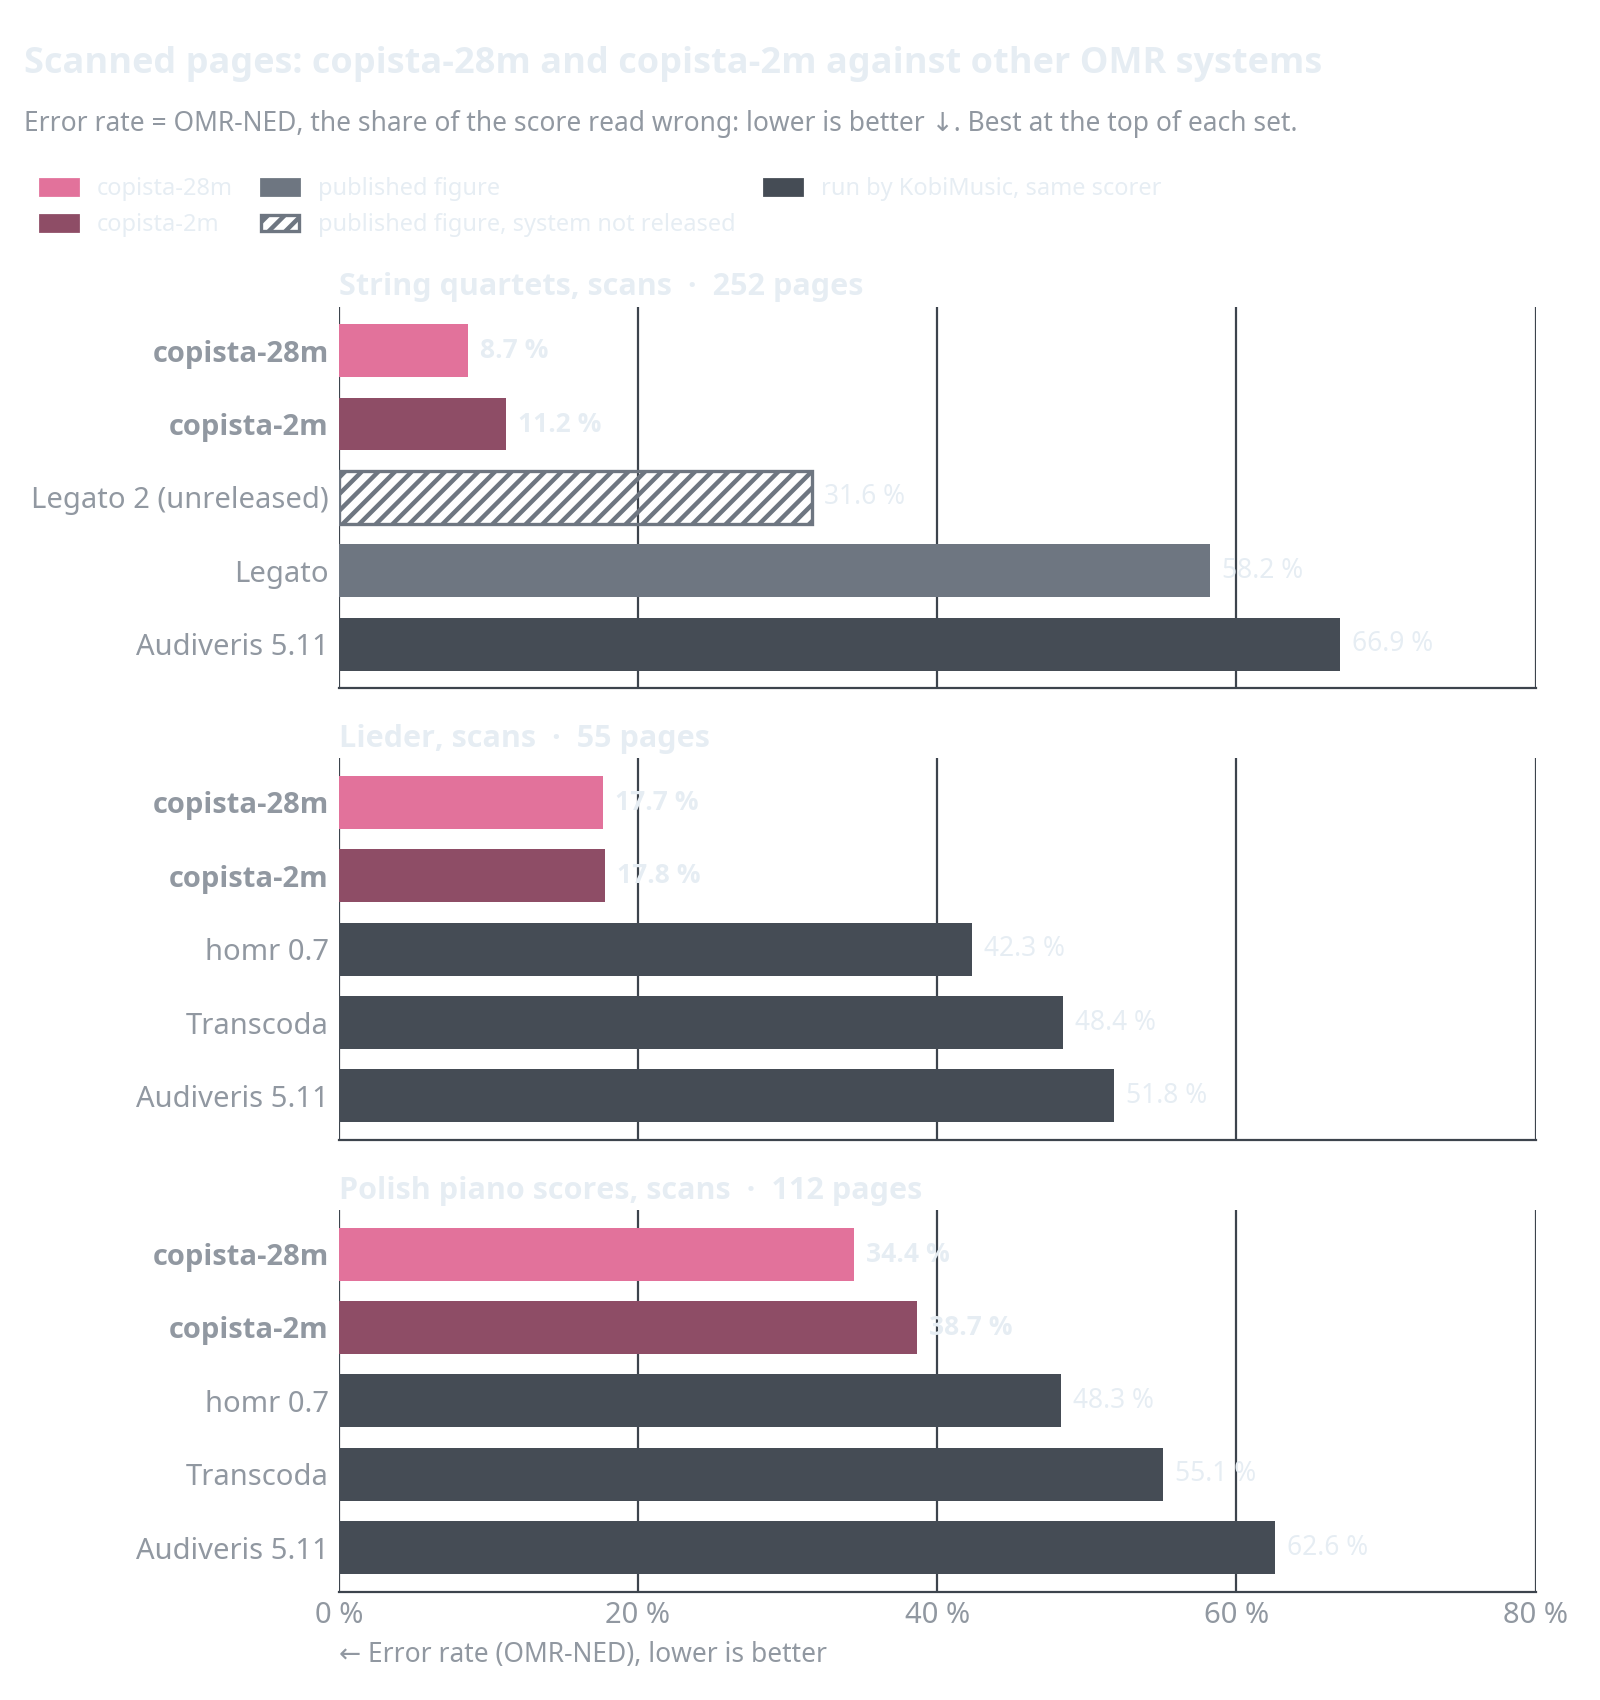
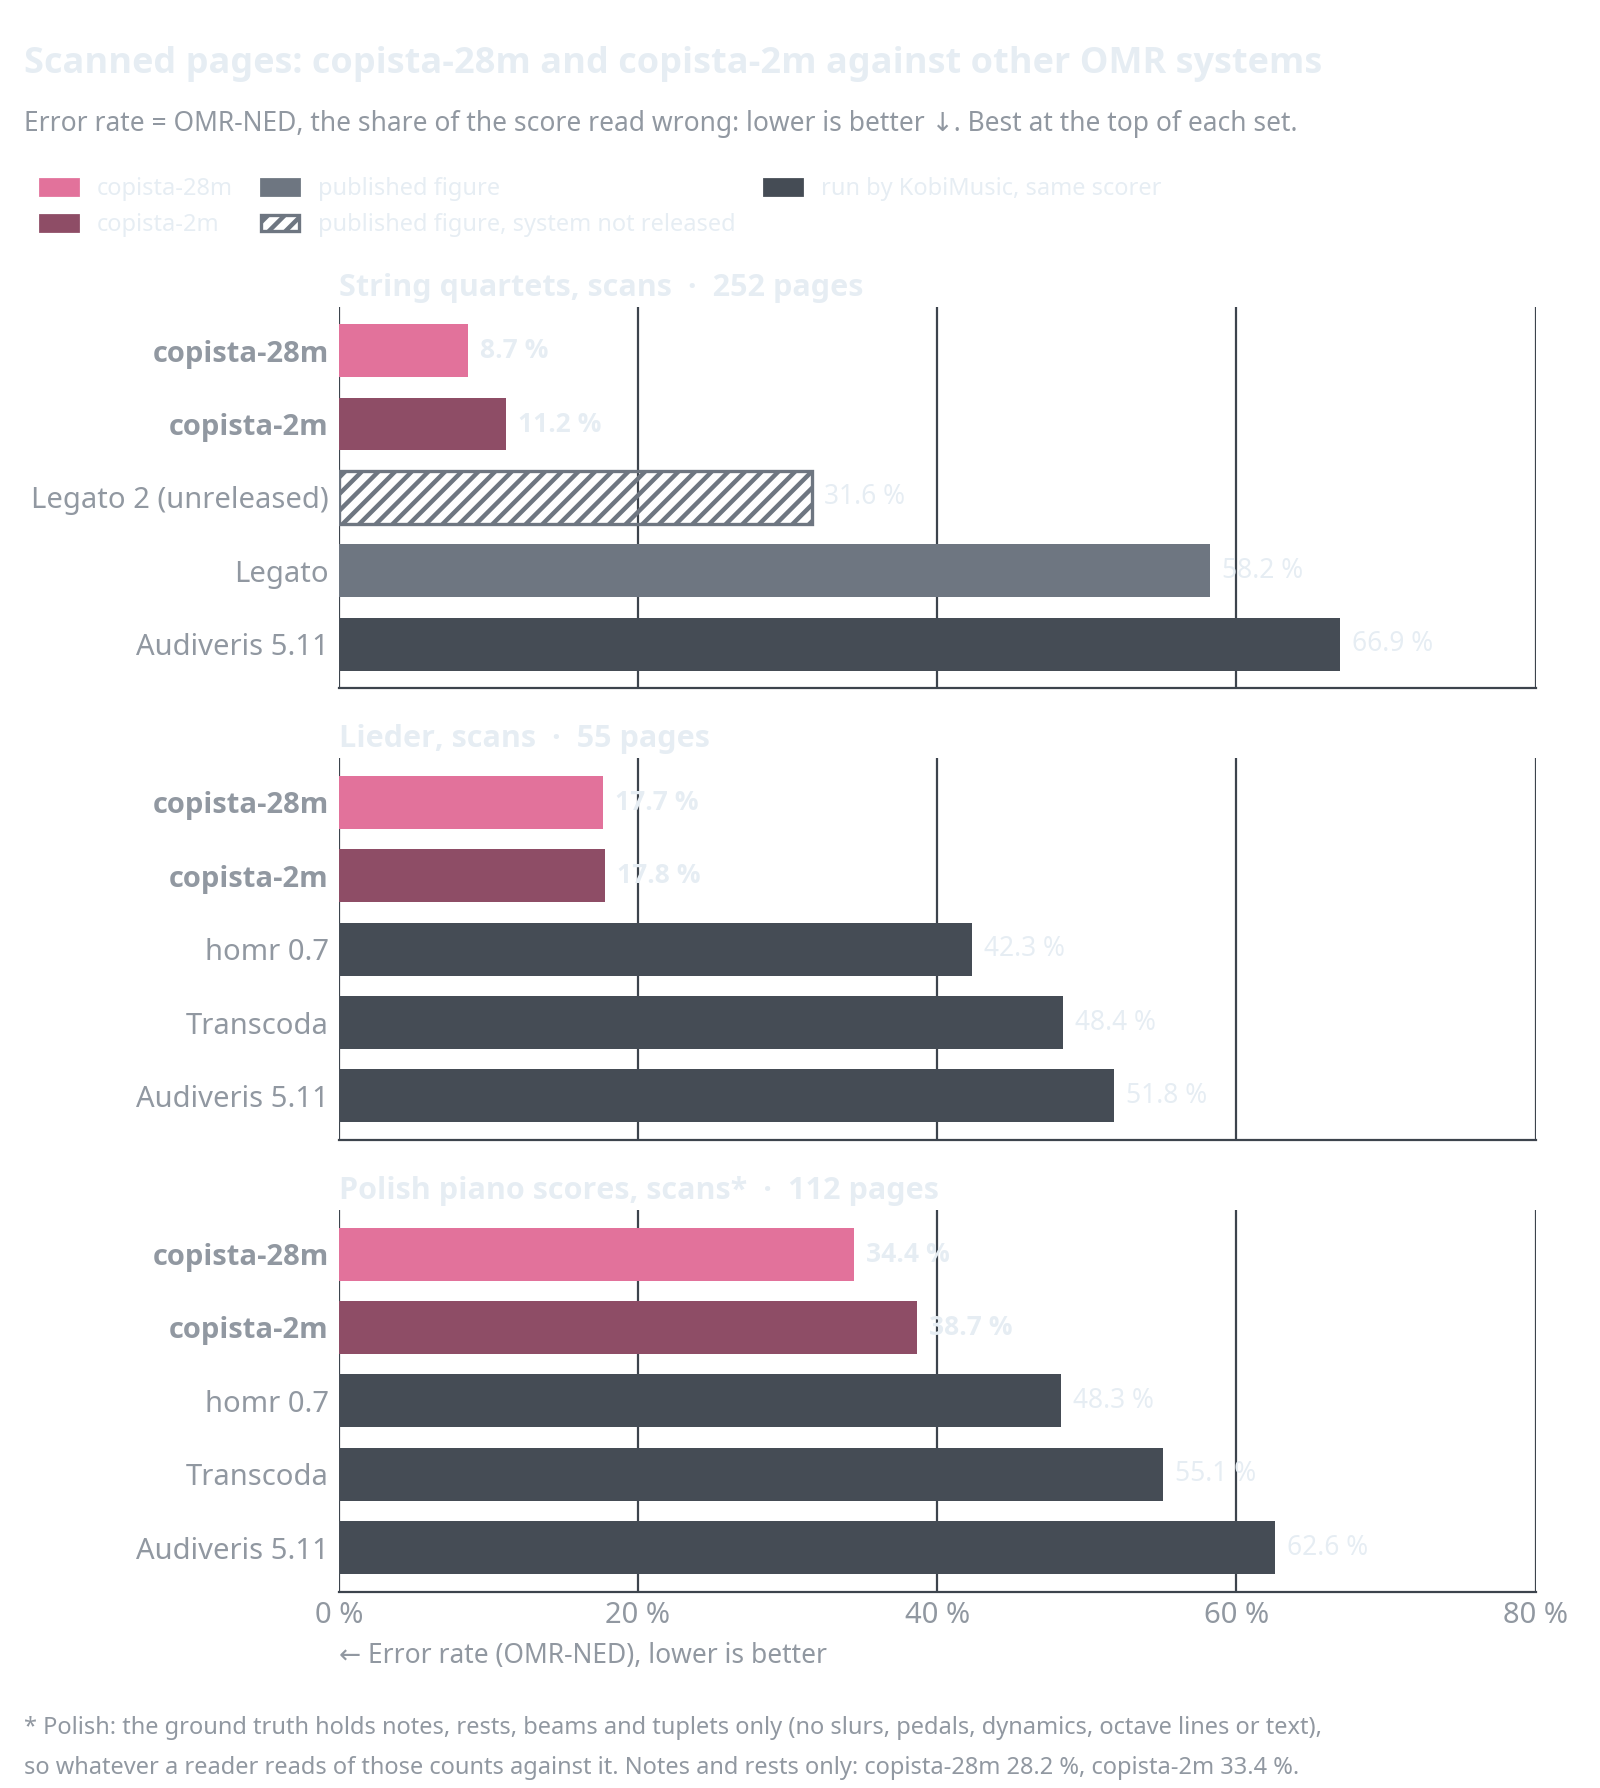
Polish scans: an asterisk for a ground truth of notes only
The Polish set's ground truth holds notes, rests, beams and tuplets only (no slurs, pedals, dynamics, octave lines or
text, articulations 0.4 per 100 notes against 5-19 elsewhere), so what copisteria reads of those counts against
it (about 2.7 points). The table header and the chart panel carry an asterisk; the README and the chart spell it
out, with the notes-and-rests-only figures: copista-28m 28.2 %, copista-2m 33.4 %.

diff --git a/docs/images/make_charts.py b/docs/images/make_charts.py
@@ -25,6 +25,12 @@ SETS = [  # key, name, pages
     ("polish", "Polish piano scores, scans", 112),
 ]
 
+# sets whose ground truth needs a word: an asterisk on the panel, the note under the chart
+NOTES = {"polish": ("* Polish: the ground truth holds notes, rests, beams and tuplets only (no slurs, pedals, dynamics, "
+                    "octave lines or text),",
+                    "so whatever a reader reads of those counts against it. Notes and rests only: copista-28m 28.2 %, "
+                    "copista-2m 33.4 %.")}
+
 # system -> (kind, OMR-NED per set in SETS order; None = no figure)
 SYSTEMS = {
     "copista-28m": ("evidence", [8.66, 5.83, 17.69, 14.56, 34.43]),
@@ -63,9 +69,12 @@ def panels(theme, keys, title, out):
         bars = sorted(((name, neds[i], kind) for name, (kind, neds) in SYSTEMS.items() if neds[i] is not None),
                       key=lambda b: b[1])
         rows.append((SETS[i], bars))
-    fig, axes = plt.subplots(len(rows), 1, figsize=(8, 0.33 * sum(len(b) for _, b in rows) + 0.75 * len(rows) + 1.3),
+    extra = 0.22 * sum(len(NOTES.get(k, ())) for k in keys)
+    fig, axes = plt.subplots(len(rows), 1, figsize=(8, 0.33 * sum(len(b) for _, b in rows) + 0.75 * len(rows) + 1.3 + extra),
                              sharex=True, gridspec_kw=dict(height_ratios=[len(b) + 0.6 for _, b in rows]))
-    for ax, ((_, name, pages), bars) in zip(axes, rows):
+    notes = [line for key in keys for line in NOTES.get(key, ())]
+    for ax, ((key, name, pages), bars) in zip(axes, rows):
+        name = name + ("*" if key in NOTES else "")
         for y, (system, ned, kind) in enumerate(bars):
             ax.barh(y, ned, 0.72, **bar_style(t, kind))
             ax.text(ned + 0.8, y, f"{ned:.1f} %", va="center", fontsize=9.5, color=t["text"],
@@ -97,7 +106,11 @@ def panels(theme, keys, title, out):
     fig.text(0.015, top - 0.3 / fig.get_figheight(), "Error rate = OMR-NED, the share of the score read wrong: "
              "lower is better ↓. Best at the top of each set.", ha="left", va="center", color=t["muted"],
              fontsize=9.5)
-    fig.tight_layout(rect=(0, 0, 1, 1 - 1.2 / fig.get_figheight()), h_pad=1.2)
+    bottom = 0.22 * len(notes) / fig.get_figheight()
+    for k, line in enumerate(notes):
+        fig.text(0.015, bottom - (k + 0.7) * 0.2 / fig.get_figheight(), line, ha="left", va="center",
+                 color=t["muted"], fontsize=8.5)
+    fig.tight_layout(rect=(0, bottom, 1, 1 - 1.2 / fig.get_figheight()), h_pad=1.2)
     fig.savefig(OUT / f"{out}-{theme}.png", dpi=200, transparent=True)
     plt.close(fig)
 

diff --git a/README.md b/README.md
@@ -26,7 +26,7 @@ scores too; but if even you have trouble reading a page, it will too.
 
 <picture>
   <source media="(prefers-color-scheme: dark)" srcset="docs/images/compare-scans-dark.png">
-  <img alt="Error rate on scanned pages, lower is better; Legato 2 is not released. String quartets: copista-28m 8.7 %, copista-2m 11.2 %, Legato 2 31.6 %, Legato 58.2 %, Audiveris 66.9 %. Lieder, 55 pages: copista-28m 17.7 %, copista-2m 17.8 %, homr 42.3 %, Transcoda 48.4 %, Audiveris 51.8 %. Polish piano scores: copista-28m 34.4 %, copista-2m 38.7 %, homr 48.3 %, Transcoda 55.1 %, Audiveris 62.6 %" src="docs/images/compare-scans-light.png" width="800">
+  <img alt="Error rate on scanned pages, lower is better; Legato 2 is not released. String quartets: copista-28m 8.7 %, copista-2m 11.2 %, Legato 2 31.6 %, Legato 58.2 %, Audiveris 66.9 %. Lieder, 55 pages: copista-28m 17.7 %, copista-2m 17.8 %, homr 42.3 %, Transcoda 48.4 %, Audiveris 51.8 %. Polish piano scores (ground truth of notes only, see the note): copista-28m 34.4 %, copista-2m 38.7 %, homr 48.3 %, Transcoda 55.1 %, Audiveris 62.6 %" src="docs/images/compare-scans-light.png" width="800">
 </picture>
 
 ## How it reads a page
@@ -151,7 +151,7 @@ wrong: a page read entirely wrong scores 100 %.
 > **Every figure in the table and the charts is an error rate: lower is better ↓.** copista-28m is lowest on every
 > set; both sizes are ahead of every other system on every set.
 
-| System | Figures | Quartets, scans ↓ | Quartets, renders ↓ | Lieder, scans ↓ | Lieder, renders ↓ | Polish piano, scans ↓ |
+| System | Figures | Quartets, scans ↓ | Quartets, renders ↓ | Lieder, scans ↓ | Lieder, renders ↓ | Polish piano, scans\* ↓ |
 |---|---|---|---|---|---|---|
 | **copista-28m** | KobiMusic | **8.7 %** | **5.8 %** | **17.7 %** | **14.6 %** | **34.4 %** |
 | **copista-2m** | KobiMusic | 11.2 % | 8.8 % | 17.8 % | 15.9 % | 38.7 % |
@@ -170,6 +170,12 @@ the evidence model was trained on copista-28m's detector. "Published" figures ar
 released**: its figures are from the paper and nobody can run it (hatched bars in the charts). The systems marked
 "run by KobiMusic" were run on the same pages with the same scorer. A page a system gives no output for counts as
 read entirely wrong, as on the IMSLP piano leaderboard.
+
+\* **Polish scans:** the ground truth holds notes, rests, beams and tuplets only: no slurs, pedal marks, dynamics,
+octave lines or text, and almost no articulations (0.4 per 100 notes, against 5-19 in the other sets). Whatever a
+reader reads of those counts against it, and copisteria reads them: about 2.7 points of its error. Scored on notes
+and rests only, copista-28m's error rate is 28.2 % and copista-2m's 33.4 %. The comparison with the other systems
+stands: they are scored against the same ground truth.
 
 1. Legato's Polish figure (86.7 %) comes from a different pipeline and carries an asterisk where it is published; it
    is left out.
